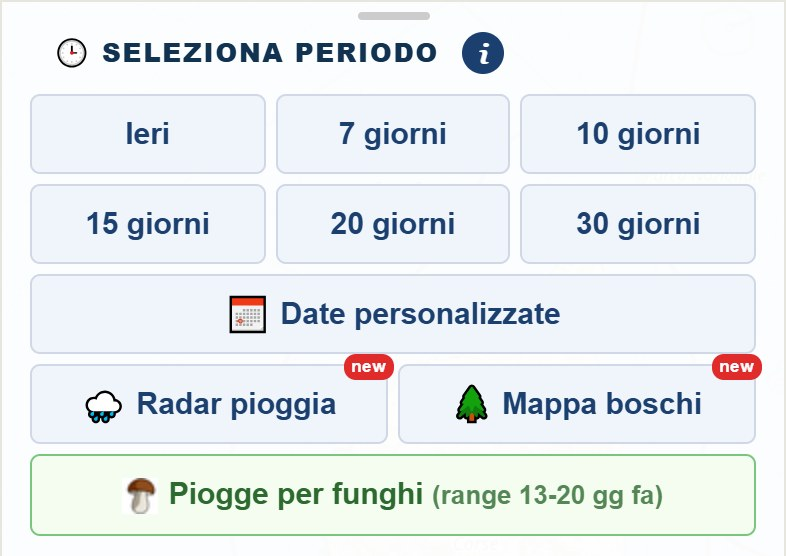
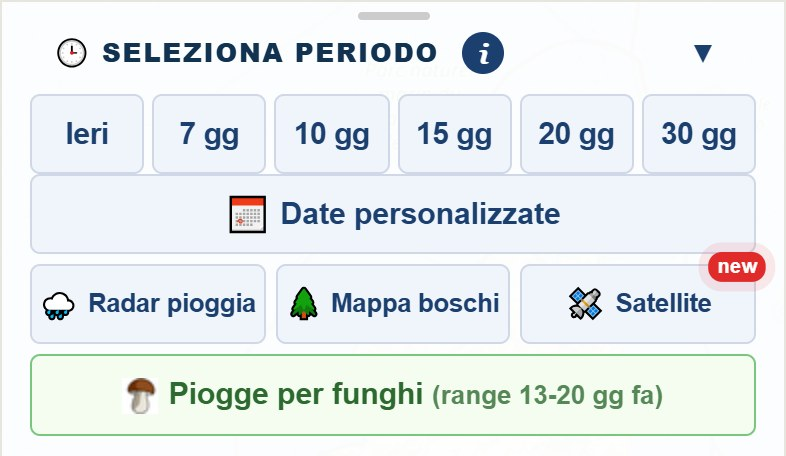
Mappa: Satellite nella riga, temperature come icona sulla mappa, tasti non piu' alti [skip netlify]
- storico: la riga diventa Radar pioggia | Mappa boschi | Satellite, tre
  tasti uguali (new su Satellite). Satellite apre i boschi con la foto;
  arrivati da li', «Torna alla mappa», la freccia e «↩ Indietro» tornano
  alla mappa di prima. Senza regione chiede la regione come Mappa boschi.
- temperature di ieri: non piu' un tasto nella riga ma un'icona sulla mappa
  (termometro + «ieri», new, blu se accesa), solo nello storico con una
  regione scelta. Computer: sotto la ricerca, al posto della vetrina che con
  l'icona se ne va. Telefono: in basso a destra, 10 px sopra il pannello, e
  scende riducendolo. Zoom all'accensione: telefono +0,5 solo da lontano,
  computer senza date l'inquadratura dell'analisi, con le date niente.
- Radar | Temp. ieri | Boschi restavano alti 60 px dopo le previsioni: il
  tasto delle temperature copiava l'altezza del radar (cricchetto), tolto.
- guida: capitolo 5 (foto e didascalia), 8 (l'icona, foto nuova), 14 (il
  tasto Satellite anche nella riga), voce del 4 ottobre.

diff --git a/index.html b/index.html
@@ -4477,6 +4477,7 @@ function posizionaChipFonte(){
   var cb=document.getElementById('pv-cerca-tel');
   if(cb&&vis(cb)){ cb.style.top=Math.round(y)+'px'; y+=cb.getBoundingClientRect().height+8; }
   c.style.top=Math.round(y)+'px';
+  if(window._tqPosiziona) window._tqPosiziona();   // l'icona delle temperature la segue (13/10/2026)
 }
 window.posizionaChipFonte=posizionaChipFonte;
 /* ⚠ LA CHIP SEGUE IL PANNELLO IN ALTO A OGNI CAMBIO D'ALTEZZA (13/10/2026, suo: al telefono
@@ -15695,6 +15696,36 @@ body.tq-on #channel-logo,body.tq-on #channel-pill{display:none !important}
 body.tq-on path.conf-pulse,body.tq-on .panel-pulse,body.tq-on .panel-pulse-ring,
 body.tq-on #loc-input.loc-chiama,body.tq-on #geo-btn.loc-chiama{animation:none !important}
 .tq.via{visibility:hidden}
+/* ⚠ DAL 13/10/2026 LE TEMPERATURE SONO UN'ICONA SULLA MAPPA, non piu' un tasto nella riga (sua scelta «D» dopo
+   otto proposte): al telefono in alto a destra sotto la barra delle regioni, al computer nel posto della vetrina
+   (sotto la ricerca, o sotto la vetrina se c'e' ancora). Solo nello storico e solo con una regione scelta. Il posto
+   nella riga l'ha preso «Satellite». */
+#tq-btn.p-mappa{width:42px;height:42px;padding:0;border-radius:9px;flex-direction:column;justify-content:center;gap:1px;
+  border:2px solid rgba(0,0,0,.22);box-shadow:0 1px 5px rgba(0,0,0,.25);font:700 9.5px/1 system-ui,-apple-system,'Segoe UI',sans-serif;color:#1b3f6e}
+#tq-btn.p-mappa svg{width:19px;height:19px}
+#tq-btn.p-mappa.on{background:#1f6fd1;border-color:#1f6fd1;color:#fff}
+/* il «new» resta anche sull'icona (13/10/2026, suo: «lascia il new su temp e satellite»); sparisce con le temperature accese */
+#tq-btn.p-mappa::after{content:'new';position:absolute;top:-7px;right:-6px;background:#e12b2b;color:#fff;font-size:8.5px;font-weight:700;
+  letter-spacing:.3px;padding:1px 4px;border-radius:6px;line-height:1.35;pointer-events:none;animation:newPulsa 1.6s ease-in-out infinite}
+#tq-btn.p-mappa.on::after{display:none}
+@media (prefers-reduced-motion:reduce){#tq-btn.p-mappa::after{animation:none}}
+/* la riga dello storico: Radar pioggia | Mappa boschi | Satellite, tre tasti uguali (13/10/2026, sua scelta «3») */
+.rd-coppia.con-sat{grid-template-columns:1fr 1fr 1fr}
+body.modo-radar .rd-coppia.con-sat,body.modo-boschi .rd-coppia.con-sat{grid-template-columns:1fr 1fr}
+body.modo-radar #time-panel .rd-coppia.con-sat > #btn-sat-riga,body.modo-boschi #time-panel .rd-coppia.con-sat > #btn-sat-riga{display:none !important}   /* piu' forte della regola «niente a capo» qui sotto */
+#btn-sat-riga{position:relative}
+#btn-sat-riga::after{content:'new';position:absolute;top:-6px;right:-4px;background:#e12b2b;color:#fff;font-size:8.5px;font-weight:700;
+  letter-spacing:.3px;padding:1px 4px;border-radius:6px;line-height:1.35;pointer-events:none;animation:newPulsa 1.6s ease-in-out infinite}
+@media (prefers-reduced-motion:reduce){#btn-sat-riga::after{animation:none}}
+/* in un terzo di riga «🌧 Radar pioggia» andava a capo (41 → 60 px): niente a capo, margini stretti, un filo piu' piccolo */
+#time-panel .rd-coppia.con-sat > *{display:flex !important;align-items:center;justify-content:center;gap:4px;white-space:nowrap;
+  padding-left:2px !important;padding-right:2px !important;letter-spacing:-.2px}
+@media(min-width:901px){#time-panel .rd-coppia.con-sat > .tp-custom-btn{font-size:12.5px !important}}
+@media(max-width:900px){#time-panel .rd-coppia.con-sat > .tp-custom-btn{font-size:13px !important}}
+@media(max-width:380px){#time-panel .rd-coppia.con-sat > .tp-custom-btn{font-size:12px !important;letter-spacing:-.3px}}
+/* al computer l'icona prende il posto della vetrina (sua idea, 13/10): quando c'e' l'icona la vetrina se ne va,
+   e l'icona sta sempre sotto la ricerca, senza saltare quando si accende */
+@media(min-width:901px){body.tq-vis #channel-logo{display:none !important}}
 </style>
 <script>
 (function(){
@@ -15725,7 +15756,7 @@ body.tq-on #loc-input.loc-chiama,body.tq-on #geo-btn.loc-chiama{animation:none !
   }
   var TERM='<svg width="15" height="15" viewBox="0 0 24 24" fill="none" stroke="#1f6fd1" stroke-width="2.4" stroke-linecap="round" aria-hidden="true"><path d="M14 14.8V4a2 2 0 0 0-4 0v10.8a4 4 0 1 0 4 0z"/><path d="M12 9v8"/></svg>';
   function disegnaTasto(){
-    btn.innerHTML=POS==='riga' ? TERM+'<span>Temp. ieri</span>' : TERM+giorno;
+    btn.innerHTML=POS==='riga' ? TERM+'<span>Temp. ieri</span>' : TERM+'<span>ieri</span>';
     btn.title=on?'Nascondi le temperature del '+giorno:'Minima e massima del '+giorno+' accanto ai pluviometri';
     btn.classList.toggle('on',on);
     document.body.classList.toggle('tq-on',on);
@@ -15741,9 +15772,13 @@ body.tq-on #loc-input.loc-chiama,body.tq-on #geo-btn.loc-chiama{animation:none !
     if(!btn) return;
     // ⚠ il tasto esce INSIEME agli altri della riga (3/10, suo: «appare in ritardo»): non aspetta
     // ne' il file ne' i pallini, sparisce solo se il file non c'e' o col radar e coi boschi
-    var vis=!datiKo && !modoAltro();
+    // dal 13/10/2026 anche: almeno una regione scelta (senza non ci sono pluviometri) e mai nelle previsioni
+    var reg=window._regioniAttive?window._regioniAttive().length>0:false;
+    var vis=!datiKo && !modoAltro() && reg && !document.body.classList.contains('modo-prev');
     btn.classList.toggle('vis',vis);
-    if(btn.parentNode && btn.parentNode.classList) btn.parentNode.classList.toggle('con-tq',vis);
+    if(POS!=='riga') document.body.classList.toggle('tq-vis',vis);
+    if(POS==='riga' && btn.parentNode && btn.parentNode.classList) btn.parentNode.classList.toggle('con-tq',vis);
+    if(POS!=='riga') posiziona();
     if(POS==='riga') copiaAspetto();
     // si spegne solo entrando nel radar o nei boschi: mentre un'analisi ridisegna i pallini
     // per un attimo non ce n'e' nessuno, e non deve spegnersi per quello
@@ -15820,7 +15855,7 @@ body.tq-on #loc-input.loc-chiama,body.tq-on #geo-btn.loc-chiama{animation:none !
   /* IL POSTO DEL TASTO (3/10, deciso dopo tre prove dal vivo: in basso sulla mappa «non lo vede
      nessuno», nel pannello e nella testata «un tasto aggiunto a caso»): terzo tasto IN MEZZO alla riga
      «Radar pioggia | Mappa boschi». Se la riga non c'e' ancora, aspetta sulla mappa. */
-  var POS='riga';
+  var POS='mappa';   // dal 13/10/2026 un'icona sulla mappa (vedi il CSS); 'riga' resta per la storia
   /* (3/10 sera, sua idea): terzo tasto nella riga «Radar pioggia | Mappa boschi», che si
      stringono. Prende l'aspetto dei due vicini (colori, bordo, altezza) leggendolo da loro. */
   function copiaAspetto(){
@@ -15828,7 +15863,12 @@ body.tq-on #loc-input.loc-chiama,body.tq-on #geo-btn.loc-chiama{animation:none !
     var cs=getComputedStyle(rb);
     if(!on){ btn.style.background=cs.backgroundColor; btn.style.color=cs.color; }
     else { btn.style.background=''; btn.style.color=''; }
-    btn.style.borderRadius=cs.borderRadius; btn.style.minHeight=cs.height;
+    /* ⚠ L'ALTEZZA NON SI COPIA PIU' (13/10/2026, sue schermate: Radar | Temp. ieri | Boschi alti 60 invece di 41).
+       Copiarla da Radar faceva un cricchetto: entrando nelle previsioni questo tasto si nasconde, «Mappa boschi»
+       finiva nella colonna stretta e andava a capo, la riga saliva a 60, si copiavano i 60, e da li' la riga non
+       scendeva piu' (Radar, allungato dalla griglia, rileggeva sempre 60). Stando nella stessa griglia il tasto
+       prende comunque l'altezza della riga. */
+    btn.style.borderRadius=cs.borderRadius; btn.style.minHeight='';
     btn.style.borderColor=on?'':cs.borderTopColor; btn.style.borderWidth=cs.borderTopWidth;
   }
   function posiziona(){
@@ -15844,14 +15884,36 @@ body.tq-on #loc-input.loc-chiama,body.tq-on #geo-btn.loc-chiama{animation:none !
     if(btn.parentNode!==mpEl) mpEl.appendChild(btn);
     btn.classList.add('p-mappa'); btn.classList.remove('p-riga');
     if(!tel){
+      /* nel posto della vetrina (13/10/2026): sotto la casella di ricerca, allineata a destra; se la vetrina
+         c'e' ancora (regione scelta, date no) sotto la vetrina, cosi' non si coprono mai */
+      var mb=mpEl.getBoundingClientRect(), vis=function(e){ if(!e) return null; var r=e.getBoundingClientRect(); return getComputedStyle(e).display!=='none'&&r.height>0?r:null; };
+      var lb=vis(document.getElementById('loc-box')), vt=vis(document.getElementById('channel-logo'));
+      if(lb && lb.left>mb.left+mb.width/2){
+        var sotto=(vt && vt.left>mb.left+mb.width/2 && vt.top>=lb.top) ? vt : lb;
+        btn.style.top=Math.round(sotto.bottom-mb.top+10)+'px'; btn.style.right=Math.round(mb.right-lb.right)+'px'; return;
+      }
       var at=document.querySelector('#map .leaflet-control-attribution');
       btn.style.bottom=((at?at.offsetHeight:18)+10)+'px'; return;
     }
-    // sul telefono sotto la barra delle regioni, che cambia altezza: si misura (come il Satellite)
-    var rp=document.getElementById('region-panel'), giu=8;
-    if(rp && getComputedStyle(rp).display!=='none'){ var r=rp.getBoundingClientRect(); if(r.height>0) giu=Math.round(r.bottom-mpEl.getBoundingClientRect().top+8); }
-    btn.style.top=giu+'px';
+    /* ⚠ AL TELEFONO IN BASSO A DESTRA (13/10/2026, suo: «lo metterei in basso a dx, se uno riduce scende ancora»):
+       appoggiata 10 px sopra il pannello in basso (il periodo prima delle date, la legenda dopo), qualunque sia la sua
+       altezza: riducendo il pannello l'icona scende con lui. La misura la rifanno l'osservatore sui pannelli e la fine
+       delle loro animazioni (vedi collegaPannelli). */
+    var mt=mpEl.getBoundingClientRect(), copre=0;
+    ['legend-panel','time-panel'].forEach(function(id){ var e=document.getElementById(id); if(!e) return; var s=getComputedStyle(e);
+      if(s.display==='none'||s.visibility==='hidden') return; var r=e.getBoundingClientRect();
+      if(r.height>20 && r.bottom>=mt.bottom-2 && r.top<mt.bottom) copre=Math.max(copre,mt.bottom-Math.max(r.top,mt.top)); });
+    btn.style.top=''; btn.style.bottom=Math.round(copre+10)+'px';
   }
+  // i pannelli in basso cambiano altezza (riduci, periodo, legenda) e scorrono con un'animazione: l'icona li segue
+  var pannelliSeguiti=false;
+  function collegaPannelli(){
+    if(pannelliSeguiti) return; pannelliSeguiti=true;
+    ['legend-panel','time-panel'].forEach(function(id){ var e=document.getElementById(id); if(!e) return;
+      try{ if(window.ResizeObserver) new ResizeObserver(function(){ posiziona(); }).observe(e); }catch(x){}
+      e.addEventListener('transitionend',function(){ posiziona(); }); });
+  }
+  window._tqPosiziona=function(){ if(btn&&POS!=='riga') posiziona(); };   // la chiama la riga della fonte quando si sposta
   /* ⚠ IL TASTO NASCE SUBITO, senza aspettare la mappa (3/10, suo: «appare in ritardo, quella
      riga non esce insieme alle altre»). Un osservatore sul pannello lo infila nella riga «Radar |
      Boschi» nello stesso istante in cui quella riga viene costruita; mappa ed etichette si
@@ -15873,8 +15935,17 @@ body.tq-on #loc-input.loc-chiama,body.tq-on #geo-btn.loc-chiama{animation:none !
       // da lontano ci si avvicina (sua scelta «a»), al centro dei pallini della regione e non della
       // mappa (3/10: da lontano si vedevano solo le etichette del bordo, il resto copriva altri pallini)
       var ps=pallini();   // senza regione scelta non c'e' niente su cui avvicinarsi
-      if(mp && on && ps.length && mp.getZoom()<ZOOM_VICINO-0.5){
-        mp.setView(L.latLngBounds(ps.map(function(p){ return p._latlng; })).getCenter(),ZOOM_VICINO); return;   // il moveend ridisegna
+      /* ⚠ QUANTO AVVICINARSI (13/10/2026, sue prove dal telefono e dal computer):
+         - telefono: mezzo livello in piu' (+0,5) restando dove si e', e solo da lontano: lo zoom 9 di prima era
+           «troppo grande» (della regione restava un pezzo); con +0,5 le temperature leggibili quasi raddoppiano
+           (Lombardia 36 → 64) e la regione si vede ancora quasi tutta;
+         - computer senza date: l'inquadratura che darebbe l'analisi (_fitRegioni), quella che si ha scegliendo le date;
+         - computer con le date: niente, la mappa e' gia' a quella distanza. */
+      if(mp && on && ps.length){
+        if(window.innerWidth<=900){ if(mp.getZoom()<ZOOM_VICINO-0.5){ mp.setZoom(mp.getZoom()+0.5); return; } }   // il moveend ridisegna
+        else if(!(window._storicoStato&&window._storicoStato().analisi) && window._fitRegioni && window._regioniAttive){
+          var z0=mp.getZoom(); try{ window._fitRegioni(window._regioniAttive()); }catch(e){} if(mp.getZoom()!==z0) return;
+        }
       }
       disegna();
     });
@@ -15893,10 +15964,48 @@ body.tq-on #loc-input.loc-chiama,body.tq-on #geo-btn.loc-chiama{animation:none !
     var mp=m();
     if(!mp||!window.L){ setTimeout(collega,100); return; }
     mp.on('zoomend moveend',function(){ if(on) rinvia(); });
+    collegaPannelli();
     mp.on('layeradd layerremove',rinvia);
     try{ var at0=document.querySelector('#map .leaflet-control-attribution'); if(at0) new MutationObserver(posiziona).observe(at0,{childList:true,subtree:true,characterData:true}); }catch(e){}
     posiziona(); aggiorna();
   }
+  if(document.readyState==='loading') document.addEventListener('DOMContentLoaded',nasci); else nasci();
+})();
+</script>
+<script>
+/* IL SATELLITE NELLA RIGA DELLO STORICO (13/10/2026, sua scelta «3»: Radar pioggia | Mappa boschi | Satellite,
+   tre tasti uguali). Prima si arrivava al satellite con due tocchi (Mappa boschi, poi Satellite), e lo trovava
+   gia' una persona su quattro di quelle che entrano nei boschi. Il tasto fa quei due tocchi da solo: apre i boschi
+   e accende la foto. ⚠ Resta la regola del 29/9 per le tessere Esri: il satellite c'e' solo dentro i boschi.
+   Nel radar e nei boschi il tasto sparisce (lo dice il CSS accanto a #tq-btn). */
+(function(){
+  function nasci(){
+    var rg=document.querySelector('#time-panel .rd-coppia'), bb=document.getElementById('btn-boschi');
+    if(!rg||!bb||bb.parentNode!==rg){ setTimeout(nasci,150); return; }
+    if(document.getElementById('btn-sat-riga')) return;
+    var b=document.createElement('div'); b.className='tp-custom-btn rd-btn'; b.id='btn-sat-riga';
+    b.title='Foto dal satellite, con i tipi di bosco sopra';
+    b.innerHTML='<span class="rd-ic">🛰</span> Satellite';
+    bb.parentNode.insertBefore(b,bb.nextSibling); rg.classList.add('con-sat');
+    b.addEventListener('click',function(){
+      daRiga=true;
+      try{ gtag('event','mappa_satellite',{stato:'riga'}); }catch(e){}
+      function foto(){ if(!window._satOn && window._satToggle) window._satToggle(); }
+      if(window._boschiAcceso){ foto(); return; }
+      var bo=document.getElementById('btn-boschi'); if(bo) bo.click();
+      var giri=0; (function prova(){ if(window._boschiAcceso){ foto(); return; } if(++giri<80) setTimeout(prova,100); })();
+    });
+  }
+  /* ⚠ «TORNA ALLA MAPPA» RIPORTA DOVE ERI (13/10/2026, suo: «vado su satellite dalla schermata iniziale, tocco Torna
+     alla mappa e mi porta ai boschi»). Arrivati dal tasto della riga, spegnere il satellite (tasto, freccia del browser,
+     «↩ Indietro») esce anche dai boschi. Entrati dai boschi e poi Satellite, resta come prima: si torna ai boschi. */
+  var daRiga=false, satPrima=false;
+  try{ new MutationObserver(function(){
+    var c=document.body.classList, sat=c.contains('sat-on');
+    if(!c.contains('modo-boschi')){ daRiga=false; satPrima=false; return; }
+    if(daRiga && satPrima && !sat){ daRiga=false; satPrima=false; var bo=document.getElementById('btn-boschi'); if(bo) setTimeout(function(){ bo.click(); },0); return; }
+    satPrima=sat;
+  }).observe(document.body,{attributes:true,attributeFilter:['class']}); }catch(e){}
   if(document.readyState==='loading') document.addEventListener('DOMContentLoaded',nasci); else nasci();
 })();
 </script>

diff --git a/guida/index.html b/guida/index.html
@@ -286,7 +286,7 @@ td:first-child{font-weight:600;color:#2c3e54;white-space:nowrap}
     <span class="quando">7 ottobre 2026</span></div>
   <ul>
     <li><span class="data">7 ott</span><span><a href="#previsioni">Le previsioni meteo</a><span class="d">: la linguetta «Previsioni» in cima alla mappa. Il tempo previsto su città e paesi, giorno per giorno, e per qualsiasi località il dettaglio ora per ora con temperatura, millimetri, probabilità di pioggia e vento, per sette giorni. Anche dalla scheda di ogni pluviometro e dalle pagine dei funghi.</span></span></li>
-    <li><span class="data">4 ott</span><span><a href="#temperature-ieri">Le temperature di ieri sulla mappa</a><span class="d">: premi «Temp. ieri» e accanto a ogni pluviometro compaiono la minima e la massima del giorno prima, anche sopra la pioggia del periodo che hai scelto.</span></span></li>
+    <li><span class="data">4 ott</span><span><a href="#temperature-ieri">Le temperature di ieri sulla mappa</a><span class="d">: tocca l'icona col termometro sulla mappa e accanto a ogni pluviometro compaiono la minima e la massima del giorno prima, anche sopra la pioggia del periodo che hai scelto.</span></span></li>
     <li><span class="data">4 ott</span><span><a href="#vento">Da dove soffia il vento</a><span class="d">: nella scheda del pluviometro, sotto il grafico del vento, una freccia per ogni giorno. Col periodo «Ieri» c'è anche la direzione scritta, per esempio «da NE».</span></span></li>
     <li><span class="data">30 set</span><span><a href="#video">La guida in video</a><span class="d">: cinque minuti con tutti gli strumenti della mappa, dal telefono, sul canale YouTube.</span></span></li>
     <li><span class="data">30 set</span><span><a href="#satellite">I boschi dal satellite</a><span class="d">: nella mappa boschi premi Satellite e i colori dei boschi restano sopra la foto vera, fino a distinguere case, alberi e sentieri. Regoli l'intensità dei colori o li togli.</span></span></li>
@@ -392,8 +392,8 @@ td:first-child{font-weight:600;color:#2c3e54;white-space:nowrap}
 <p>Il pannello del periodo somma la pioggia dei giorni che scegli. I tasti pronti sono sei, più le date libere.</p>
 
 <figure class="stretta">
-  <img src="periodo.jpg" alt="Il pannello del periodo: Ieri, 7, 10, 15, 20, 30 giorni, Date personalizzate, Radar pioggia, Mappa boschi e Piogge per funghi" width="786" height="556" loading="lazy">
-  <figcaption>Sei periodi pronti, le date libere, il radar, la mappa boschi e il tasto verde della finestra per i funghi.</figcaption>
+  <img src="periodo.jpg" alt="Il pannello del periodo: Ieri, 7, 10, 15, 20, 30 giorni, Date personalizzate, Radar pioggia, Mappa boschi, Satellite e Piogge per funghi" width="786" height="456" loading="lazy">
+  <figcaption>Sei periodi pronti, le date libere, il radar, la mappa boschi, il satellite e il tasto verde della finestra per i funghi.</figcaption>
 </figure>
 
 <table>
@@ -439,10 +439,10 @@ td:first-child{font-weight:600;color:#2c3e54;white-space:nowrap}
 <p>A mappa larga si diradano, perché oltre un certo numero si sovrappongono e diventano una macchia illeggibile. <b>Ingrandendo compaiono tutti</b>, e il numero in legenda è sempre quello vero. Lo zoom si muove a tacche piccole, così si inquadra una valle senza passare dal troppo largo al troppo stretto.</p>
 
 <h2 id="temperature-ieri"><span class="n">8</span>Le temperature di ieri sui pallini</h2>
-<p>Il tasto <span class="ui">Temp. ieri</span>, fra <span class="ui">Radar pioggia</span> e <span class="ui">Mappa boschi</span>, scrive accanto ai pallini la <b>minima</b>, in blu, e la <b>massima</b>, in rosso, del giorno prima. Si accende anche sopra la pioggia del periodo scelto, così vedi insieme quanto è piovuto e com'erano le notti. Da lontano i numeri si diradano per non accavallarsi: avvicinandoti compaiono tutti. Si spegne premendo di nuovo il tasto.</p>
+<p>Scelta una regione, sulla mappa compare l'icona col termometro <span class="ui">🌡 ieri</span>: dal computer in alto a destra, sotto la casella di ricerca; dal telefono in basso a destra, appena sopra il pannello. Toccandola diventa blu e scrive accanto ai pallini la <b>minima</b>, in blu, e la <b>massima</b>, in rosso, del giorno prima. Si accende anche sopra la pioggia del periodo scelto, così vedi insieme quanto è piovuto e com'erano le notti. Da lontano i numeri si diradano per non accavallarsi: avvicinandoti compaiono tutti. Si spegne toccando di nuovo l'icona. Nel radar, nella mappa boschi e nelle previsioni l'icona non c'è.</p>
 <figure class="stretta">
-  <img src="temperature-ieri.jpg" alt="La Toscana dal telefono con le temperature di ieri accanto ai pallini: la minima in blu e la massima in rosso" width="592" height="690" loading="lazy">
-  <figcaption>La Toscana dal telefono col tasto acceso. Accanto a ogni pallino, minima e massima di ieri.</figcaption>
+  <img src="temperature-ieri.jpg" alt="La Toscana dal telefono con le temperature di ieri accanto ai pallini: la minima in blu e la massima in rosso, e in basso a destra l'icona accesa" width="786" height="760" loading="lazy">
+  <figcaption>La Toscana dal telefono con l'icona accesa, in basso a destra. Accanto a ogni pallino, minima e massima di ieri.</figcaption>
 </figure>
 <p class="mini">Se una stazione ha dato un valore che i vicini smentiscono, per esempio per un sensore guasto, quel numero non lo scriviamo e il pallino resta senza. Il link e la foto condivisa portano le temperature accese.</p>
 
@@ -628,7 +628,7 @@ td:first-child{font-weight:600;color:#2c3e54;white-space:nowrap}
 <p>Sotto i colori c'è il rilievo: le ombre dei monti, come se il sole arrivasse da nord-ovest. Viene da <b>TINITALY</b>, il modello del terreno d'Italia a 10 metri dell'INGV, lo stesso da cui ricaviamo quota, versante e pendenza.</p>
 
 <h2 id="satellite"><span class="n">14</span>I boschi dal satellite</h2>
-<p>Nel pannello della mappa boschi c'è il tasto <span class="ui">🛰 Satellite</span>: la cartina lascia il posto alla foto dal satellite e i colori dei boschi restano sopra. Ingrandendo fino in fondo si distinguono le case, i singoli alberi e i sentieri, e capisci se quel bosco è fitto o rado, se c'è una strada per arrivarci, dove lasciare la macchina.</p>
+<p>Il tasto <span class="ui">🛰 Satellite</span> sta accanto a <span class="ui">Mappa boschi</span>, e c'è anche nel pannello della mappa boschi: la cartina lascia il posto alla foto dal satellite e i colori dei boschi restano sopra. Ingrandendo fino in fondo si distinguono le case, i singoli alberi e i sentieri, e capisci se quel bosco è fitto o rado, se c'è una strada per arrivarci, dove lasciare la macchina.</p>
 
 <figure class="media">
   <img src="satellite.jpg" alt="Santo Stefano d'Aveto dal satellite nella mappa boschi: le case fra i prati, i boschi colorati sopra la foto, la nuvoletta aperta su un robinieto a 981 metri, e nel pannello il tasto Satellite acceso con la manopola dell'intensità" width="1000" height="566" loading="lazy">
